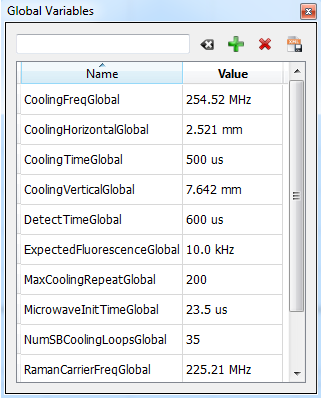
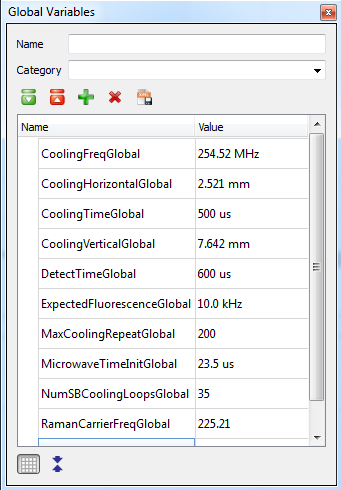
more documentation

Changed region(s): [[0.0, 0.0, 1.0, 1.0], [0.8075, 0.0905, 0.8385, 0.1508]]

diff --git a/docs/code/autodoc.py b/docs/code/autodoc.py
@@ -59,7 +59,18 @@ for name in os.listdir(IonControlDir):
 
 codeDocsName='codeDocs.rst'
 with open(codeDocsName, 'w') as f:
-    f.write("Code Documentation\n==================\n\nContents:\n\n.. toctree::\n   :maxdepth: 2\n\n")
+    f.write("""
+Code Documentation
+==================
+
+   Contents:
+
+   .. toctree::
+      :maxdepth: 2
+
+The code is written in Python 2.7. The GUI uses the PyQt4 library, which is a Python port of the Qt framework. Heavy use is made of the Qt model/view architecture, and Qt signals and slots. The plotting is all done using the pyqtgraph library, which is especially good at rapid plot updates.
+
+""")
     for name in modulesToDocument:
         docName = name + '-doc'
         f.write('   '+docName+'\n')

diff --git a/docs/manual/ExtendingTheCode.rst b/docs/manual/ExtendingTheCode.rst
@@ -11,6 +11,27 @@ Adding Hardware
 External Parameters
 ~~~~~~~~~~~~~~~~~~~
 
+Add new instruments in \\IonControl\\externalParameter\\StandardExternalParameter.py. Each instrument is a class that inherits from ExternalParameterBase, and must specify its name and output channels (and associated unit). It must provide three methods: __init__, setValue, and close. It can also provide a getValue method if the instrument can report its value. For a simple example, see the class HP6632B.
+
+If the new instrument is part of an existing category of instruments (like a VISA instrument), then no change to the experiment configuration is necessary; just add your class under the "if visaEnabled" statement.
+
+If the new instrument is a new category which requires its own libraries/DLLs/etc., you will need to add this as an option in the experiment config file. To do that, do the following:
+
+   1) Open \\IonControl\\config\\ExptConfigGuiTemplate.yml
+   2) Add a new entry under hardware for your new instrument. Give it a description, and any necessary fields, in the same way that the other instruments are specified. Note that configuration options for specific instances of instrument can be specified in the params selection GUI. THe configuration options in the expt config file are more for the entire category of instrument, i.e. things like DLLs.
+
+These two steps will make your piece of hardware appear as an option in the experiment config GUI.
+
+   3) In StandardExternalParameter.py, add a line of the form:
+
+      .. code-block:: python
+
+         yourInstrumentEnabled = project.isEnabled('hardware', 'yourInstrument')
+
+   4) Create your class inside of an if statement "if yourInstrumentEnabled." Read in any configuration data by looking in the project dictionary.
+
+You should now be able to select your instrument from the Params Selection GUI.
+
 Voltage Controllers
 ~~~~~~~~~~~~~~~~~~~
 
@@ -20,7 +41,7 @@ AWGs
 Adding Evaluations
 ------------------
 
-The evaluations are defined in \IonControl\scan\CountEvaluation.py, and listed in \IonControl\scan\EvaluationAlgorithms.py. Each evaluation is a class which inherits from EvaluationBase, and is listed in EvaluationAlgorthms.py. An evaluation class must provide:
+The evaluations are defined in \\IonControl\\scan\\CountEvaluation.py, and listed in \IonControl\scan\EvaluationAlgorithms.py. Each evaluation is a class which inherits from EvaluationBase, and is listed in EvaluationAlgorthms.py. An evaluation class must provide:
 
    - A name
    - A tooltip
@@ -31,55 +52,12 @@ The evaluations are defined in \IonControl\scan\CountEvaluation.py, and listed i
 
       Raw value is typically the value not scaled by the number of experiments, i.e. if 100 experiments were performed and in 43 of them the ion is bright, the evaluated value would be 0.43 and the raw value would be 43.
 
-Here is a relatively simple example:
-
-.. code-block:: Python
-
-    class ThresholdEvaluation(EvaluationBase):
-        """
-        simple threshold state detection: if more than threshold counts are observed
-        the ion is considered bright. For threshold photons or less it is considered
-        dark.
-        """
-        name = "Threshold"
-        tooltip = "Above threshold is bright"
-        def __init__(self,settings=None):
-            EvaluationBase.__init__(self,settings)
-
-        def setDefault(self):
-            self.settings.setdefault('threshold',1)
-            self.settings.setdefault('invert',False)
-
-        def evaluate(self, data, evaluation, expected=None, ppDict=None, globalDict=None ):
-            countarray = evaluation.getChannelData(data)
-            if not countarray:
-                return 0, None, 0
-            N = float(len(countarray))
-            if self.settings['invert']:
-                discriminated = [ 0 if count > self.settings['threshold'] else 1 for count in countarray ]
-            else:
-                discriminated = [ 1 if count > self.settings['threshold'] else 0 for count in countarray ]
-            if evaluation.name:
-                data.evaluated[evaluation.name] = discriminated
-            x = numpy.sum( discriminated )
-            p = x/N
-            # Wilson score interval with continuity correction
-            # see http://en.wikipedia.org/wiki/Binomial_proportion_confidence_interval
-            rootp = 3-1/N -4*p+4*N*(1-p)*p
-            top = min( 1, (2 + 2*N*p + math.sqrt(rootp))/(2*(N+1)) ) if rootp>=0 else 1
-            rootb = -1-1/N +4*p+4*N*(1-p)*p
-            bottom = max( 0, (2*N*p - math.sqrt(rootb))/(2*(N+1)) ) if rootb>=0 else 0
-            return p, (p-bottom, top-p), x
-
-        def children(self):
-            return [{'name':'threshold','type':'int','value':self.settings['threshold']},
-                    {'name':'invert', 'type': 'bool', 'value':self.settings['invert'] }]
-
+See ThresholdEvaluation for a relatively simple example.
 
 Adding Fits
 -----------
 
-The fits are defined in \IonControl\fit\FitFunctions.py. Each fit is a class which inherits from FitFunctionBase. At a bare minimum, the fit must provide:
+The fits are defined in \\IonControl\\fit\\FitFunctions.py. Each fit is a class which inherits from FitFunctionBase. At a bare minimum, the fit must provide:
 
     - a name
     - a function string to display
@@ -87,21 +65,7 @@ The fits are defined in \IonControl\fit\FitFunctions.py. Each fit is a class whi
     - default values
     - the method "functionEval" which defines how to evaluate the function.
 
-Here is a minimal example:
-
-.. code-block:: Python
-
-    class SinSqGaussFit(FitFunctionBase):
-        name = "Sin2 Gaussian Decay"
-        functionString =  'A * exp(-x^2/tau^2) * sin^2(pi/(2*T)*x+theta) + O'
-        parameterNames = [ 'A', 'T', 'theta', 'O', 'tau' ]
-        def __init__(self):
-            FitFunctionBase.__init__(self)
-            self.parameters = [1,100,0,0, 1000]
-            self.startParameters = [1,100,0,0, 1000]
-
-        def functionEval(self, x, A, T, theta, O, tau ):
-            return A*numpy.exp(-numpy.square(x/tau))*numpy.square(numpy.sin(numpy.pi/2/T*x+theta))+O
+See SinSqGaussFit for a relatively simple example.
 
 Fits can also provide:
 

diff --git a/docs/manual/FPGAControl.rst b/docs/manual/FPGAControl.rst
@@ -13,7 +13,7 @@ When a scan is not running, the FPGA outputs can be controlled via the following
    Shutter values set here are completely overwritten by the pulse program when a scan is running. When a scan stops, shutter values return to the values set here.
 
 - Triggers
-   Allows control of each trigger line. Select the lines you want to trigger, then click *Apply*. As with shutters, these names appear in the pulse program triggers window.
+   Allows control of each trigger line. Triggers go high for one clock cycle (= 10 ns) before going low again. The are used internally to control when the DDSs or DACs change their value. Select the lines you want to trigger, then click *Apply*. As with shutters, these names appear in the pulse program triggers window.
 
 - DDS
    Set the frequency, amplitude and phase of each DDS. The *On* checkbox for a given DDS is completely equivalent to the corresponding DDS enable shutter channel (the two are linked; clicking one will click the other). The *Square* checkbox enables the digital output of the DDS.
@@ -25,7 +25,9 @@ When a scan is not running, the FPGA outputs can be controlled via the following
    DDS values set in the pulse program overwrite values set here during a scan. If the pulse program does NOT write a given value, then that value is left unchanged during a scan. At the conclusion of a scan, values revert to those set here.
 
 - DAC
-   Similar to DDS. For *IonControl-firmware-LX150-UMD.bit*, channels 0-7 control the DACs directly. Channels 8-15 are virtual DAC channels that control the DAC in concert with the PI loops. see :ref:`PILoops` .
+   Similar to DDS. For *IonControl-firmware-LX150-UMD.bit*, channels 0-7 control the DACs directly. The "Write All" checkbox controls whether the value set here is written to the DAC Channels when the pulse program stops. If the DAC is the output of an "always on" servo loop, make sure this box is unchecked. Otherwise, whenever a pulse program stops, there will be hiccup in the lock, as the DAC gets reset to this value.
+
+   Channels 8-15 are virtual DAC channels that control the DAC in concert with the PI loops. see :ref:`PILoops` .
 
    As with the DDSs, globals and expressions can be used, and values written in the pulse program overwrite values set here.
 
@@ -56,15 +58,17 @@ PI Loops
 
 Each of the 8 ADCs on the breakout board can be used as the error signal for a PI control loop. PI Loop <n> corresponds to ADC <n>. The output of the PI loop is reconfigurable -- any DAC or any DDS amplitude can "listen" to any PI loop. The PI loops are turned on and off via the shutters (shutters 32-39 on *IonControl-firmware-LX150-UMD.bit*). The PI loops can be used as either always-on or sample-and-hold. If *PI loop <n>* is turned off during the pulse program, and turned back on later, the integrator will pick up where it left off.
 
+There are cases where this behavior is undesirable. For example, if the lock is a laser lock to a spectral feature, then you want the ability to move the DAC to the appropriate point, then turn on the lock, and have the lock start at wherever the DAC is currently, i.e. NOT wherever the lock was the last time it was turned off. This is the purpose of the virtual channels DACs 8-15. If you write a value to DAC 8, this is equivalent to writing a value to DAC 0, except that when the PI loop is turned on, the output will initially be set to the value DAC 8 is set to. If you write a value to DAC 0 and turn on the PI loop, the output will be whatever it was when last the PI loop was turned off (or 0). Thus, use DACs 0-7 for things like laser power stabilization locks (or unlocked DACs), and DACs 8-15 for things like laser frequency locks.
+
 The routing of the PI loops is controlled in the Pulser Parameters dock by the PI Loop Regulator Inputs section. If *DAC<n> regulator input* is set to *<m>* where *m* is between 0 and 7, then *DAC<n>* will be controlled by *PI loop <m>* (and the corresponding error signal on *ADC<m>*) when *PI loop <m>* is enabled. If *DAC<n> regulator input* is set to any number over 7, then it will not be controlled by a PI loop. The same applies to all DDS amplitudes, which can also be controlled by a PI loop by setting *DDS<n> regulator input*.
 
 The settings of the PI loop are set in the *PI Loop Parameters* section of the Pulser Parameters dock.
 
 - P Coefficient
-   Proportional gain (units: unitless)
+   32 bit proportional gain (units: unitless)
 
 - I Coefficient
-   Integrator gain (units: unitless)
+   32 bit integrator gain (units: unitless)
 
 - delay Coefficient (units: time)
    This is similar to "Output Delays" in the Pulser parameters dock. It tells the PI loop to not engage after being switched on until the delay has elapsed. For example, suppose the PI loop is stabilizing a laser intensity in a sample-and-hold configuration in the pulse program. After the laser is switched on, there is a 5 us ramp up before it is fully on and the photodiode signal is stable. The PI loop should not try and stabilize for those first 5 us. By setting the delay to 5 us in the pulser parameters, the PI loop and the laser can be turned on in the same shutter in the pulse program without causing problems.
@@ -72,9 +76,6 @@ The settings of the PI loop are set in the *PI Loop Parameters* section of the P
 - offset Coefficient (units: volts)
    This is the lock point of the PI loop. The PI loop will try and stabilize the ADC signal to this value.
 
-.. TODO: Write out equation relating output DAC voltage to input ADC voltage in terms of P, I, and offset
-
-Virtual DAC Channels
-~~~~~~~~~~~~~~~~~~~~
-
-.. TODO: Explain virtual DAC Channels 8-15
+ErrorSignal = ADC - offset (each 16 bit)
+Output = P/(2^16) * ErrorSignal + Sum(I/(2^16) * ErrorSignal)
+integration depends on ADC update rate, which is of order 10 us

diff --git a/docs/manual/Scans.rst b/docs/manual/Scans.rst
@@ -38,7 +38,13 @@ The scan control determines how the scan runs. The controls are:
       See :ref:`GateSequences`
 
    - Free Running
-      .. TODO: I don't know what this does
+      Freerunning is a mode where the pulse program can trigger the end of a point and the beginning of the next point. No data is provided via the pipe to the pulse program at that point boundary.
+      The pulse program can insert a point separator as follows:
+
+      .. code-block:: Python
+
+         write_pipe( nextPointMarker )  # where nextPointMarker = 0xfffc000000000000
+         write_pipe( counter )
 
 - scan target
    (Parameter scan only) Choose what type of parameter to scan:
@@ -89,10 +95,10 @@ The scan control determines how the scan runs. The controls are:
    .. tip:: Just leave this checked and save everything. You will very rarely regret it.
 
 - Histogram file
-   .. Todo: how does this work again?
+   If this is checked, all histograms will be saved to the filename specified.
 
 - Raw data
-   .. Todo: I don't know what this does
+   If this is checked, all raw, unevaluated data transmitted by the FPGA will be saved. For most simple experiments, this will contain no new information that is not already in the standard data file.
 
 - Gate Sequences
    Click to open :ref:`GateSequences` control.
@@ -121,9 +127,7 @@ The evaluation control determines what traces are generated by the scan. The con
       The type of evaluation -- counter or result. "Counter" refers to the counter table in the pulse program counters dock. "Result" refers to a result sent back by the pulse program using the write_result command.
 
    - ID/channel
-      Specifies which counter channel to plot. The ID is the same ID specified in the pulse program counters dock.
-
-      .. TODO: can we just make the channel number a drop down that lists the same names as in the pulse program counters dock?
+      Specifies which counter channel to plot. The ID is the same ID specified in the pulse program counters dock. If the type is a counter, the channel will be a drop down with the available counter channels. If the type is a result, it will be a spin box, as result can be any 8 bit number (0-255).
 
    - Evaluation
       Specifies how to evaluate the counts on the specified channel. A number of evaluations are available. To add new evaluations, see :ref:`ExtendingTheCode`. Each evaluation has a set of configuration options. When you click a line in the evaluation table, the bottom of the evaluation control will show a set of configuration options for that specific evaluation.
@@ -138,7 +142,15 @@ The evaluation control determines what traces are generated by the scan. The con
       What plot window to use for the trace.
 
    - Abszisse
-      .. TODO: what does this do?
+      What to use for x-axis in plot.
+
+      - x: scan value
+      - index: enumerates the points as taken
+      - time: software timestamp (time the computer added the point to the trace)
+      - fist: hardware timetick of first data in this point (in seconds since epoch)
+      - last: hardware timetick of last data in this point (in seconds since epoch)
+
+      These alternative x axes are useful if a scan is being done with randomized points while simultaneously a PI lock is being run during the scan. The evaluation looking at the scan itself will need to be plotted a function of the scan value, but the evaluation monitoring the PI lock is more informative if it plots as a function of time.
 
 Analysis Control
 ----------------
@@ -306,7 +318,7 @@ The buttons on the top do the following:
 
 style drop down menu - Determines what style to use for plotting the trace (lines, points, linespoints, etc.)
 
-|magicWand| -
+|magicWand| - Show only last dataset.
 
 Traces can be moved around in the dock using the PG-UP and PG-DOWN keys. Hitting CTRL-B on a trace will bold the text in that line. This has no effect on the trace, it is to make it easier to find a specific trace in a long list.
 

diff --git a/docs/manual/MainGUI.rst b/docs/manual/MainGUI.rst
@@ -88,10 +88,14 @@ File > Save GUI Configuration:
    Note that this is only for taking a snapshot to return to. Ordinary saving of the GUI configuration happens automatically once a minute, and whenever the program is closed.
 
 File > Save Settings:
-   This will save experiment configuration data to a file in the day's data directory, in a human-readable format. This is useful for taking a snapshot of settings which can later be return to, or for moving settings between projects.
+   This will save experiment configuration data to a file in the day's data directory, in a human-readable (XML) format. This is useful for taking a snapshot of settings which can later be return to, or for moving settings between projects.
 
 File > Load Settings:
-   Load experiment configuration data from a file saved via File > Save Settings.
+   Load specific experiment configuration data from a file saved via File > Save Settings. Options:
+
+      - **Add**: add any missing elements, without modifying existing elements.
+      - **Update**: add any missing elements, and modify existing elements based on the file. Do not delete anything.
+      - **Replace**: completely replace existing settings with settings in file.
 
 Docks
 -----
@@ -150,11 +154,13 @@ Global Variables Dock
 
    Global Variables Dock
 
-Global variables can be referenced in many places throught the program, and allow different parts of the program to reference the same value. The global variables dock shows all current global variables. They can be re-arranged in the table using the PgUp and PgDn keys, or sorted by clicking the column header. If the global variables are arranged in a particular order, and then sorted, they can be restored to the previous order by right clicking in the table and selecting "restore custom order."
+Global variables can be referenced in many places throught the program, and allow different parts of the program to reference the same value. The global variables dock shows all current global variables. To add a global variable, type a name in the "Name" box and hit enter or click |add|. The are no specific naming requirements, however, to avoid namespace collisions with the pulse program, I tend to end all global variables with the word "Global." (If you have a pulse program variable "CoolingFreq" and a global variable by the same name, this will likely cause problems and at the very least confusion.)
 
-Global variables can also be made bold by selecting the variable and hitting CTRL-B. This has no effect on the program, it simply makes that global variable easier to find quickly in the list.
+Global variables can be categorized and displayed in a tree structure to make it easier to keep them organized. This has no effect on the global variable's behavior in the program, it is purely a visual tool. To categorize a global variable, right click on the global and select from the "Categorize" menu. You can also add a global to a category on creation by using the "Category" text field/drop down menu.
 
-To add a global variable, type a name in the text box and click |add|. The are no specific naming requirements, however, to avoid namespace collisions with the pulse program, I tend to end all global variables with the word "Global." (If you have a pulse program variable "CoolingFreq" and a global variable by the same name, this will likely cause problems and at the very least confusion.)
+Global variables can be made bold by selecting the variable and hitting CTRL-B, or have a different background color by right clicking and selecting "background color". This has no effect on the program, it simply makes that global variable easier to find quickly in the list.
+
+The |grid| button controls whether a grid is shown, and the |condense| button controls how densely the global variables are displayed.
 
 Console Docks
 ~~~~~~~~~~~~~

diff --git a/docs/manual/ExternalParameters.rst b/docs/manual/ExternalParameters.rst
@@ -5,3 +5,34 @@
 External Parameters
 ===================
 
+External parameters are instruments not directly controlled by the FPGA, which are not sufficiently complex so as to require their own GUI (like a voltage controller or an AWG). These are things like a microwave frequency source or a motorized micrometer, where a small number of control parameters determine the behavior of the device.
+
+In the experiment config GUI (see :ref:`Projects`), categories of hardware can be selected (such as "Conex controllers" or "VISA instruments"). This will determine what hardware can be added via External Parameters.
+
+To add instruments which are not currently available in the software, see :ref:`ExtendingTheCode`.
+
+Params Selection
+----------------
+
+In the Params Selection dock, you add pieces of equipment. In the drop down, select the type of instrument. Under "Instrument," type the address of the instrument. For COM instruments, this might be something like "COM13." For VISA instruments, this might be something like "GPIB0::12::INSTR," or a name set in NIMAX. Under "Name," give the instrument whatever name you want to use. Then click |add|. The instrument will appear in the table. When you click on the instrument, any configuration options associated with that piece of hardware will appear in the lower table.
+
+To use the instrument, click the "Enable" checkbox. The program will try to connect to the instrument. If it is successful, the box will be checked. The instrument is now enabled.
+
+Params Control
+--------------
+
+In the Params Control dock, all enabled instrument channels are shown. You can set the value of a channel by typing a value into "Control." Global variables and expressions can be used here. If the instrument reports back its value, or if it is measured in some other way, then the measured value is shown in the "External" column. If it is not, this column will simply be a duplicate of "Control."
+
+Each channel has a set of configuration options. In addition to options specific to each channel, all channels have the following options:
+
+- jump, stepsize, and delay:
+   If *jump* is checked, the channel will instantly moved to the new value whenever a new value is typed in. If *jump* is unchecked, the channel will move by an amount *stepsize*, wait a time *delay*, move by *stepsize* again, etc., until it reaches the specified value. This allows control over how fast an external parameter's value changes.
+
+- persistDelay:
+   How long the channel should hold a value before that value is committed to the database.
+
+Params Reading
+--------------
+
+If an instrument has readings that it reports back to the computer (in addition to the reported values of channels), they will be displayed here. This is configured in the code associated with the instrument.
+

diff --git a/docs/manual/PulseProgram.rst b/docs/manual/PulseProgram.rst
@@ -47,7 +47,7 @@ The pulse program window consists of the following docks:
       The last 16 bits are internal control lines for turning on and off the PI Loops, and turning on and off the DAC scans.
 
    - Triggers
-      Interface for defining triggers. There are trigger lines for updating the DDSs, updating the DACs, and resetting the PI Loops. When a `trigger` is declared in the pulse program, a line is added.
+      Interface for defining triggers. A trigger is an internal signal that goes high for one clock cycle (= 10 ns) before going low again. There are trigger lines for updating the DDSs, updating the DACs, and resetting the PI Loops. When a `trigger` is declared in the pulse program, a line is added.
 
    - Counters
       Interface for defining specific counters to gate, or other types of measurements done by the FPGA. The counters interface has the following columns:
@@ -67,7 +67,7 @@ The pulse program window consists of the following docks:
             .. important:: This is not to be confused with the PI<n> enable lines in the shutters interface! Those lines are for turning PI loops on and off, while these lines are for monitoring the output of PI loops.
 
          - timeTick:
-            .. TODO: what does this do?
+            On rising edge of counter, inserts the current time tick into the stream to the computer. It is saved in the raw data and results file, and can be used as an x-axis in plots. It is intended to give absolute hardware timestamps to experiments to check for things like 60 Hz noise.
 
          - id:
             Assigning a counter line an id allows using the same physical counter in multiple roles. For example, suppose you want to monitor fluorescence during cooling and during detection, and you have a single PMT connected to channel 0. You would have two lines for creating the counters, `counter CoolingCounters` and `counter DetectionCounters`. Both would have *channel 0* selected, but one with *id 0* and one with *id 1*. The two counters can then be treated as if they were different physical counters.

diff --git a/docs/installation.rst b/docs/installation.rst
@@ -10,7 +10,7 @@ Python 2.7
 
 * Install WinPython_
 
-    * get version 2.7.9.4+, 64 bit
+    * get version 2.7.X+, 64 bit
     * install into C:\\
 
 * Open WinPython Control Panel
@@ -33,10 +33,10 @@ Python Modules
 
     * get 64 bit version
     * This will require registration with Opal Kelly Pins
-    * This should install the **ok** module into C:\\WinPython-64bit-2.7.9.4\\python-2.7.9.amd64\\Lib\\site-packages
+    * This should install the **ok** module into C:\\$yourWinPythonDir$\\$yourPythonDir$\\Lib\\site-packages
     * **if there is no ok directory at this path:**
 
-        * create directory "C:\\WinPython-64bit-2.7.9.1\\python-2.7.9.amd64\\Lib\\site-packages\\ok"
+        * create directory "\\$yourWinPythonDir$\\$yourPythonDir$\\Lib\\site-packages\\ok"
         * copy into that directory contents of "C:\\Program Files\\Opal Kelly\\FrontPanelUSB\\API\\Python\\2.7\\x64"
 
 * Install pyqtgraph_ -- used for all plotting
@@ -44,15 +44,19 @@ Python Modules
     * Extract the archive at your favorite location (inside download folder is just fine)
     * Open a command terminal
     * Change into the folder pyqtgraph-develop-pm
-    * Execute "\WinPython-64bit-2.7.9.4\python-2.7.9.amd64\python setup.py install"
+    * Execute
+
+       .. code-block:: python
+
+          >>> python setup.py install
 
 * Install pyvisa_ -- used for communicating with many external instruments
 
     * get via pip:
 
-      .. code-block::
+      .. code-block:: python
 
-         pip install pyvisa
+         >>> pip install pyvisa
 
     * **Note:** versions 1.7 and 1.8 are definitely fine
 

diff --git a/docs/manual/MeasurementLog.rst b/docs/manual/MeasurementLog.rst
@@ -26,5 +26,5 @@ Added columns can be removed by right clicking in the table and selecting "remov
 
 .. warning:: The database stores all the meta-data associated with a scan, but it does NOT stores the data itself. That is stored in the text file in the data directory. The database only stores the path to that file. An entry is created in the measurement log whenever a scan is started, whether or not auto-save is on. If you choose to disable auto-save, and subsequently close the program without saving the scan, you will lose the data. The entry in the measurement log will still be there, but you will not be able to plot the data via the checkbox. Similarly, if you move (or delete) the saved file, the measurement log checkbox will not work unless you manually alter the entry in the database.
 
-.. TODO: what are studies?
-.. TODO: what does re-analyze data do?
+.. TODO: Studies -- not implemented
+.. TODO: Re-analyzed -- not implemented
